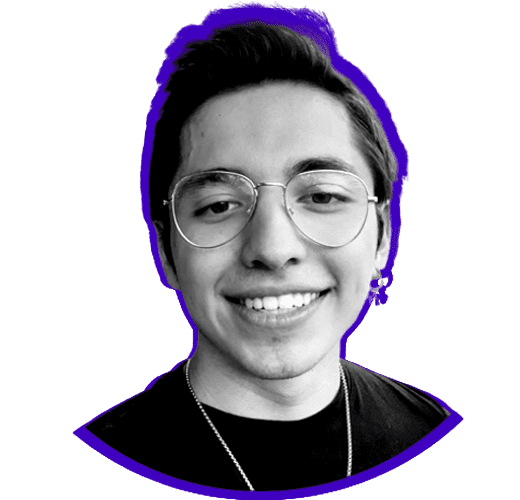
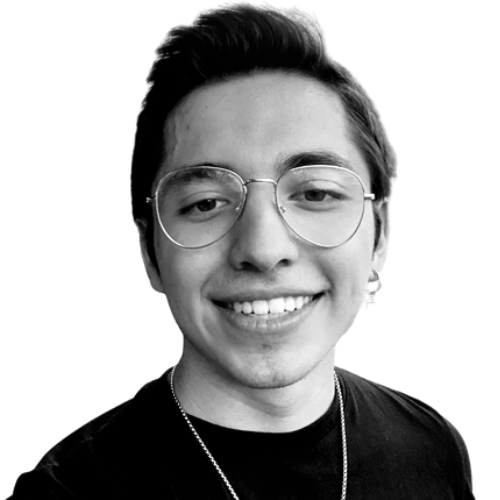
Finished loading

Changed region(s): [[0.0, 0.0, 0.96, 1.0], [0.18, 0.78, 0.27, 0.84]]

diff --git a/src/components/LoadingModels/index.jsx b/src/components/LoadingModels/index.jsx
@@ -23,13 +23,20 @@ export const LoadingModels = ({progress}) => {
   },[progress])
 
   return(
-    <div className={classes} style={{backgroundColor:"#000", width:"100vw", height:"150vh",transform:"TranslateY(-25vh)", position:"fixed", zIndex:1000, top:0, bottom:0, display:"flex", justifyContent:"center", alignItems:"center"}}>
-      <Grid container sx={{maxWidth: '1200px',height:"100vh", alignItems:"center", padding:downLg ? "2rem" : "0.5rem"}}>
+    <div className={classes} style={{backgroundColor:"#000", width:"100vw", height:"120vh",transform:"TranslateY(-10vh)", position:"fixed", zIndex:1000, top:0, bottom:0, display:"flex", justifyContent:"center", alignItems:"center"}}>
+      <Grid container sx={{maxWidth: '1200px', alignItems:"center", padding:downLg ? "3rem" : "3rem"}}>
       {downMd ? 
        <>
       <Grid item xs={12} sx={{display:"flex", flexDirection:"column", justifyContent:"center", alignItems:"center" }}>
-        <img src={Profile} style={{width:downSm ? "22rem":"30rem", marginBottom:"1.5rem"}} alt="Profile Picture"/>
-            <div style={{fontSize:downSm ? "2rem":"3rem", marginBottom:"1rem", lineHeight:"1.4", fontWeight:600}}>
+          <div style={{display:"flex", justifyContent:"center", alignItems:"center"}}>
+              <img className="photoInitial" src={Profile} style={{width: downSm ? "19rem" : "25rem", zIndex:"100", paddingBottom:"1rem"}} alt="Profile Picture"/>
+              <div className="blobInitial" style={{width: downSm ? "20rem" : "26rem",position:"absolute", paddingLeft:"1rem"}}>
+                <svg viewBox="0 0 200 200" xmlns="http://www.w3.org/2000/svg">
+                  <path fill="#3900BB" d="M63.6,-49.8C78.9,-31.6,85.2,-5.4,79.6,17.8C74.1,41,56.6,61.2,34.2,72.6C11.9,83.9,-15.5,86.4,-38.2,76.5C-60.8,66.6,-78.9,44.4,-83.3,20.3C-87.8,-3.8,-78.8,-29.7,-62.6,-48.1C-46.5,-66.5,-23.2,-77.5,0.5,-77.9C24.2,-78.2,48.4,-68,63.6,-49.8Z" transform="translate(100 100)" />
+                </svg>
+              </div>
+            </div>
+            <div style={{fontSize:downSm ? "2rem":"3.5rem", marginBottom:"0.5rem", lineHeight:"1.6", fontWeight:600}}>
               JORGE LOREDO
             </div>
             <div style={{fontSize:downSm ? "1.6rem" : "2.2rem", fontWeight:400, marginBottom:"1rem", color:"#3900BB"}}>
@@ -47,29 +54,36 @@ export const LoadingModels = ({progress}) => {
       <>
       <Grid item md={6} sx={{fontFamily:"Bahnschrift, Helvetica, sans-serif"}}>
             
-            <div style={{fontSize:downLg ? "3.8rem" : "5rem", lineHeight:"1.4", fontWeight:600}}>
+            <div style={{fontSize:downLg ? "3.5rem" : "4rem", lineHeight:"1.4", fontWeight:600}}>
               JORGE LOREDO
             </div>
 
-            <div style={{fontSize:downLg ? "2.2rem" : "2.5rem", fontWeight:400, marginBottom:"10rem", color:"#3900BB"}}>
+            <div style={{fontSize:downLg ? "2.2rem" : "2.3rem", fontWeight:400, marginBottom:"10rem", color:"#3900BB"}}>
               DEVELOPER
             </div>
 
-            <div style={{fontSize:downLg ? "1.2rem" : "1.5rem", lineHeight:"1.4", marginBottom:"1rem", color:"#A9A9A9"}}>
+            <div style={{fontSize:downLg ? "1.2rem" : "1.4rem", lineHeight:"1.4", marginBottom:"1rem", color:"#A9A9A9"}}>
               "A GREAT ARTIST CAN COME FROM ANYWHERE."<br/>- Anton Ego, Ratatouille.
             </div>
             <div style={{marginBottom:"1rem"}}>
               <BarLoader height={3} width={downLg ? 400 : 500} color="#3900BB" />
             </div>
 
-            <div style={{fontSize:downLg ? "1rem" :"1.5rem", color:"#A9A9A9"}}>
+            <div style={{fontSize:downLg ? "1rem" :"1.3rem", color:"#A9A9A9"}}>
               {Math.round(progress * 10) / 10}%
             </div>
 
           </Grid>
-          <Grid item md={6}>
-            <img  src={Profile} style={{width:"100%"}} alt="Profile Picture"/>
-
+          <Grid item md={6} sx={{position:"relative", justifyContent:"center", alignItems:"center"}}>
+            <div style={{display:"flex", justifyContent:"center", alignItems:"center"}}>
+              <img className="photoInitial" src={Profile} style={{width:"25rem", zIndex:"100", paddingBottom:"2rem"}} alt="Profile Picture"/>
+              <div className="blobInitial" style={{width:"26rem",position:"absolute", paddingLeft:"1rem"}}>
+                <svg viewBox="0 0 200 200" xmlns="http://www.w3.org/2000/svg">
+                  <path fill="#3900BB" d="M63.6,-49.8C78.9,-31.6,85.2,-5.4,79.6,17.8C74.1,41,56.6,61.2,34.2,72.6C11.9,83.9,-15.5,86.4,-38.2,76.5C-60.8,66.6,-78.9,44.4,-83.3,20.3C-87.8,-3.8,-78.8,-29.7,-62.6,-48.1C-46.5,-66.5,-23.2,-77.5,0.5,-77.9C24.2,-78.2,48.4,-68,63.6,-49.8Z" transform="translate(100 100)" />
+                </svg>
+              </div>
+            </div>
+            
           </Grid></>
     }
       </Grid>

diff --git a/src/styles/Navigation.scss b/src/styles/Navigation.scss
@@ -298,7 +298,7 @@
   /* width */
 ::-webkit-scrollbar {
   @media (min-width: 1200px) {
-    width: 8px;
+    width: 5px;
   }
 }
 
@@ -368,34 +368,61 @@
 
 .hideLoading{
   transition: all 1s;
-  -webkit-animation: 1.5s displayNone 1s forwards; /* for less modern browsers */
-  animation: 1.5s displayNone 1s forwards;
+  -webkit-animation: 2s displayNone 1s forwards; /* for less modern browsers */
+  animation: 2s displayNone 1s forwards;
 }
 
 @-webkit-keyframes displayNone {
   0% {
     opacity: 1;
-    transform: translateY(-25vh);
-      
+    transform: translateY(-10vh);
+    
+  }
+  95% {
+    transform: translateY(-120vh);
+    opacity: 0.95;
   }
   100% {
-    transform: translateY(-150vh);
-    opacity: 0.95;
+    transform: translateY(-130vh);
+    display: none;
+    opacity: 0;
+
   }
 }
 @keyframes displayNone {
   0% {
     opacity: 1;
-
-    transform: translateY(-25vh);
-
+    transform: translateY(-10vh);
+  }
+  95% {
+    transform: translateY(-120vh);
+    opacity: 0.95;
 
   }
   100% {
-    transform: translateY(-150vh);
-    opacity: 0.95;
-
-
+    transform: translateY(-130vh);
+    display: none;
+    opacity: 0;
   }
 }
 
+.photoInitial {
+  opacity: 0;
+  animation: 0.5s showLoading 1s forwards;
+}
+
+.blobInitial{
+  opacity: 0;
+  animation: showLoading 1s forwards;
+}
+
+@keyframes showLoading {
+  0% {
+    opacity: 0;
+    transform: translateY(20px);
+  }
+  100% {
+    transform: translateY(0);
+    opacity: 1;
+  }
+}

diff --git a/src/pages/Projects.jsx b/src/pages/Projects.jsx
@@ -9,11 +9,7 @@ import { useInView } from "react-intersection-observer";
 
 import { useState, useRef,createRef, useEffect } from "react";
 import { List } from "../components/ListProjects/List";
-import { ModalProject, LoadingModels } from "../components";
-
-import useScrollSnap from 'react-use-scroll-snap';
-import ScrollSnap from 'scroll-snap'
-
+import { ModalProject } from "../components";
 
 export const Projects = ({setInView}) =>{  
     const themeM = useTheme();
@@ -81,21 +77,6 @@ export const Projects = ({setInView}) =>{
                             {inView && <FeaturedProjects openModalFunc={handleOpen} handleNextPage = {handleNextPage}/>}
                             
                         </Canvas>
-           {/*
-                        chargeComplete ? 
-                                                <Canvas 
-                            className='canvas' 
-                            shadows
-                            camera={{position: [0,30,60], fov:15}}
-                            gl={{ antialias: false }}
-                        >
-                            {inView && <FeaturedProjects openModalFunc={handleOpen} handleNextPage = {handleNextPage}/>}
-                            
-                        </Canvas>
-                        :
-                        <LoadingModels progress={progress}/>*/
-                    }
-
                 </div>
             </Grid>
             <Grid item xs={12} className="section3">

diff --git a/src/pages/Work.jsx b/src/pages/Work.jsx
@@ -6,8 +6,6 @@ import useMediaQuery from '@mui/material/useMediaQuery';
 import { useInView } from "react-intersection-observer";
 import { useProgress} from '@react-three/drei'
 
-import { LoadingModels } from "../components";
-
 
 import { useState, useRef, useEffect } from "react";
 
@@ -37,20 +35,6 @@ export const Work = () => {
                     >
                         <WorkScene/>
                     </Canvas> 
-        {/*
-                        chargeComplete ? 
-                        <Canvas 
-                        className='canvas' 
-                        shadows
-                        camera={{position: [0,30,60], fov:20}}
-                        color={"#000000"}
-                        style={{zIndex:100}}
-                    >
-                        <WorkScene/>
-                    </Canvas> 
-                        :
-                        <LoadingModels progress={progress}/>
-    */}
 
     </div>
 

diff --git a/src/components/Roles/index.jsx b/src/components/Roles/index.jsx
@@ -35,7 +35,7 @@ import {Model as Placa1} from "../../models/home/Placa1"
 
 import { useTheme } from '@mui/material/styles';
 import useMediaQuery from '@mui/material/useMediaQuery';
-import {JGx, LoadingModels} from "../../components"
+import {JGx} from "../../components"
 import {Model as Control2} from "../../models/home/Control2"
 import {Model as Compu1} from "../../models/home/Compu1"
 import {Model as Compu2} from "../../models/home/Compu2"
@@ -68,11 +68,6 @@ export const Roles = () => {
     return(
         <div style={{width:"100%", height:"100vh", backgroundColor:"black"}}>
             <JGx/>
-                {/*
-                    chargeComplete ? 
-                    <LoadingModels progress={progress}/> : 
-                <LoadingModels progress={progress}/>*/
-}
 
                     <Canvas 
                     className='canvas' 
